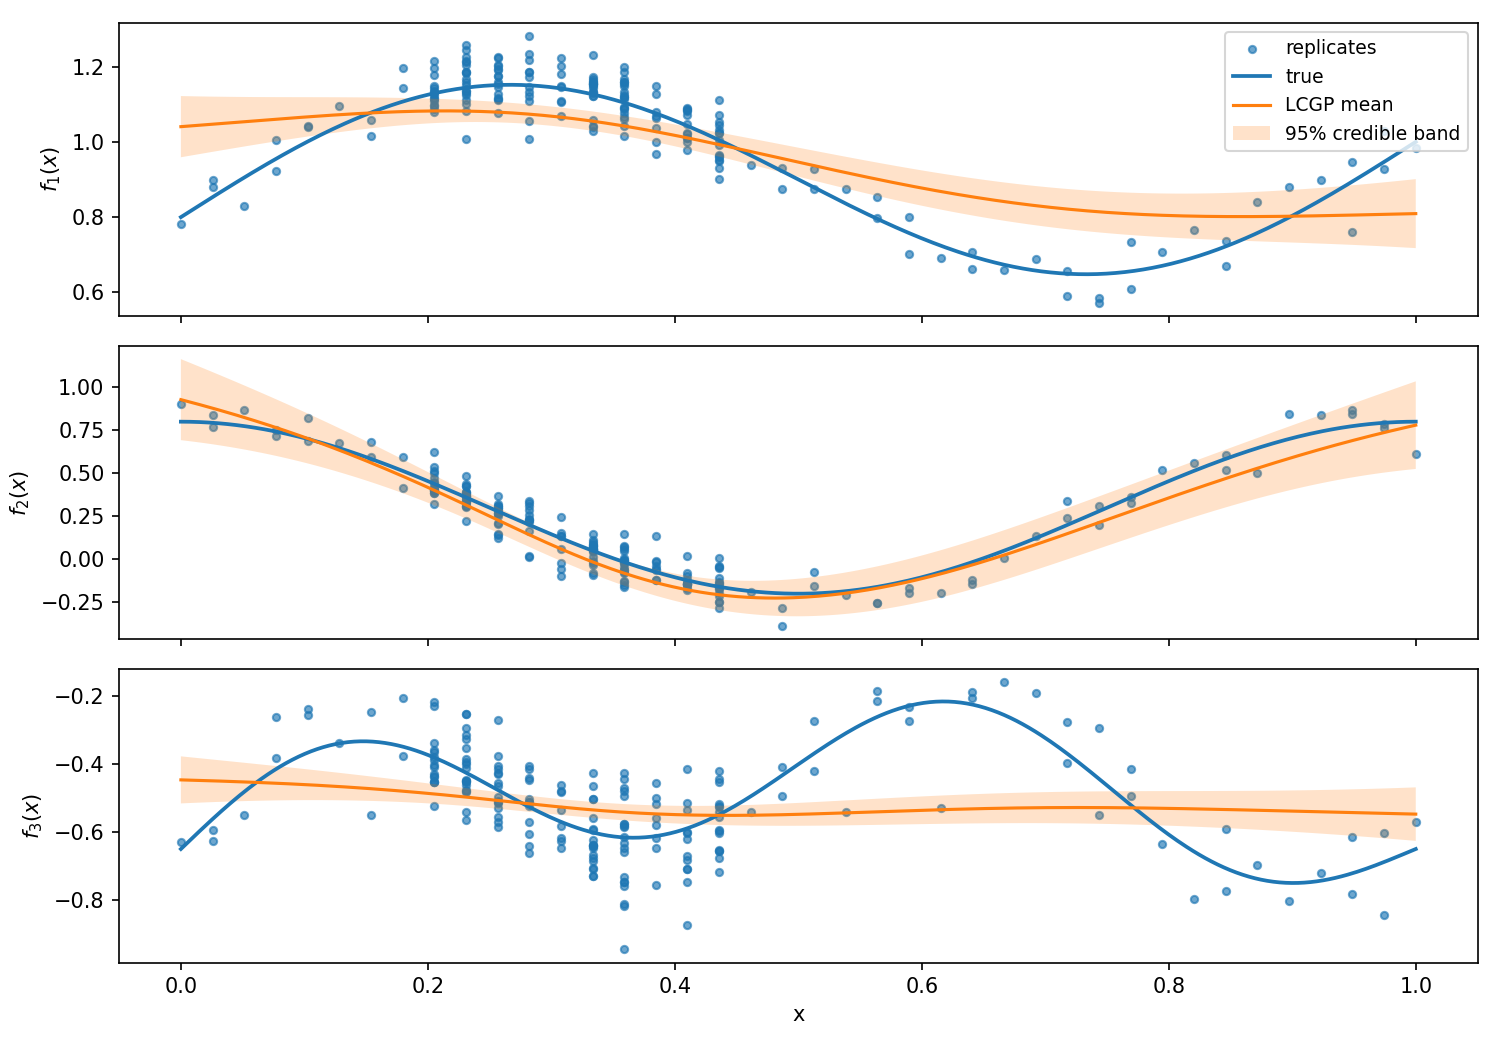
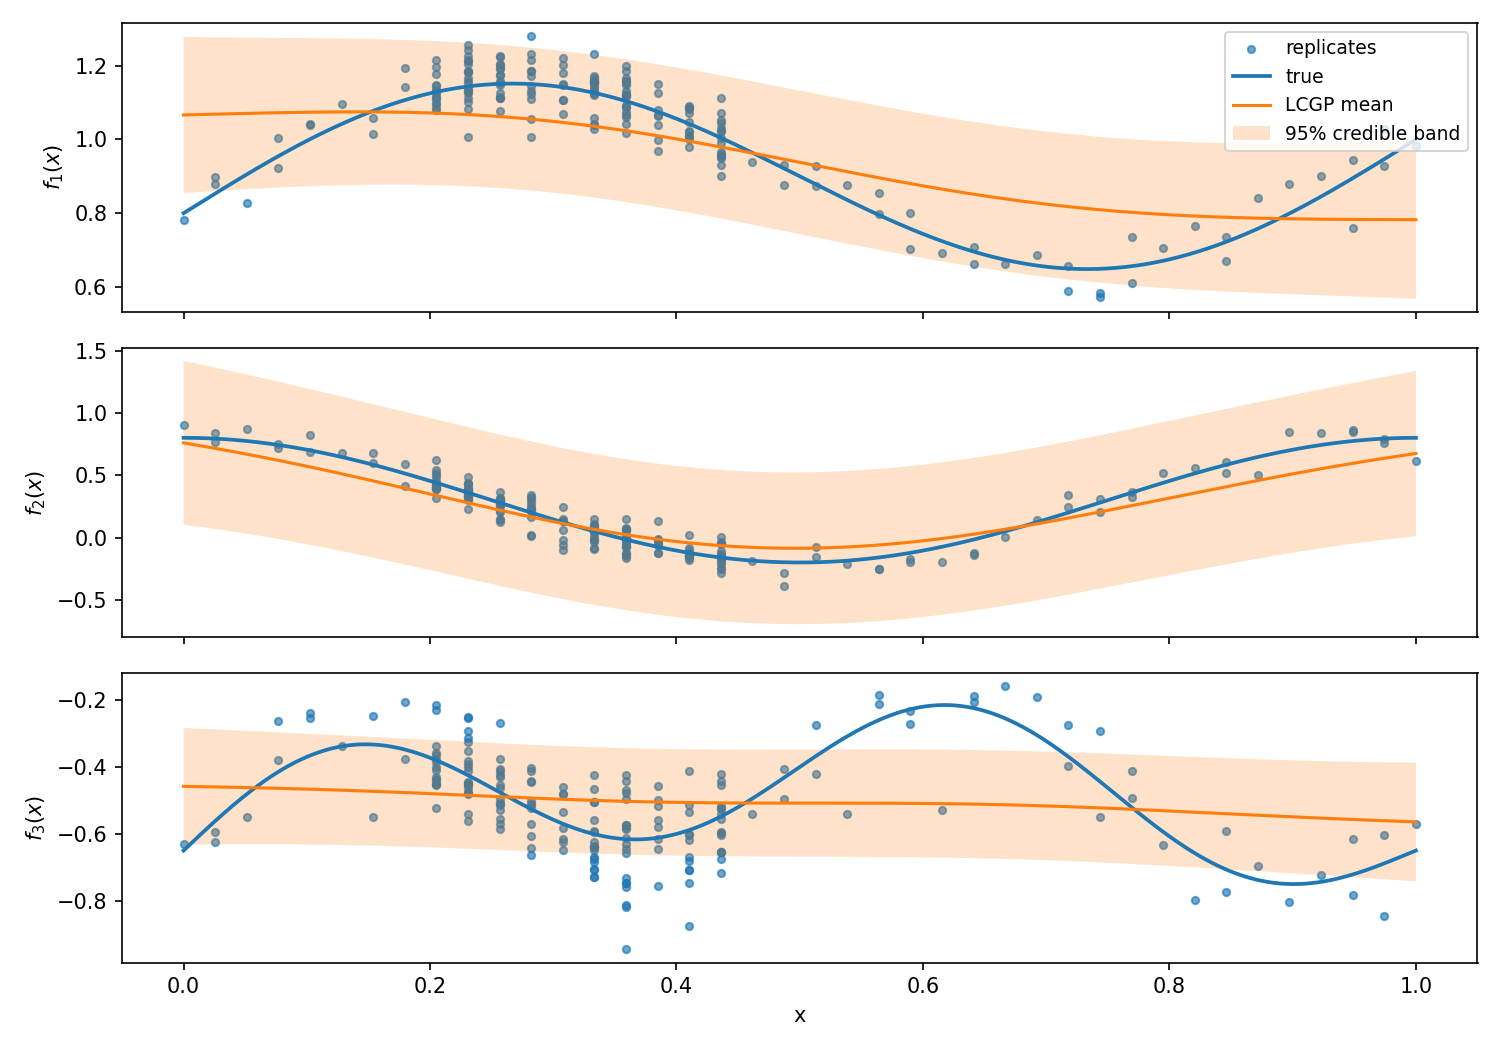
added comments for each calculation matching with overleaf document. and added toggle mode for standardization or not in neglpost_rep

diff --git a/lcgp/lcgp.py b/lcgp/lcgp.py
@@ -35,6 +35,8 @@ class LCGP(gpflow.Module):
         super().__init__()
         self.verbose = verbose
         self.robust_mean = robust_mean
+        self.rep_standardize_ybar = True            # can toggle this
+
         self.x = self._verify_data_types(x)
         self.y = self._verify_data_types(y)
 
@@ -155,9 +157,72 @@ class LCGP(gpflow.Module):
         Build replication structures once if not yet built.
         """
         if not self._rep_initialized:
+            # (LaTeX: lines 540-546, 541-546)
             self.preprocess()  # builds x_unique, ybar, r, R, ybar_s, etc.
             # rebuild basis on ybar_s
             self._rep_initialized = True
+
+# def preprocess(self, y_raw=None, x_raw=None):
+#     """
+#     TF-only
+#     """
+#     if x_raw is None:
+#         x_raw = self.x_orig
+#     if y_raw is None:
+#         y_raw = self.y_orig
+
+#     x_raw = x_raw if isinstance(x_raw, tf.Tensor) else tf.convert_to_tensor(x_raw, dtype=tf.float64)
+#     y_raw = y_raw if isinstance(y_raw, tf.Tensor) else tf.convert_to_tensor(y_raw, dtype=tf.float64)
+
+#     tf.debugging.assert_rank(x_raw, 2, message="x_raw must be (N, d)")
+#     tf.debugging.assert_rank(y_raw, 2, message="y_raw must be (p, N)")
+#     N = tf.shape(x_raw)[0]
+#     d = tf.shape(x_raw)[1]
+#     p = tf.shape(y_raw)[0]
+#     tf.debugging.assert_equal(tf.shape(y_raw)[1], N, message="y_raw columns must match x_raw rows")
+
+#     row_str = tf.strings.reduce_join(
+#         tf.as_string(x_raw, precision=17), axis=1, separator=","
+#     )
+#     uniq_str, group_ids = tf.unique(row_str)  
+
+#     # counts per unique
+#     n = tf.shape(uniq_str)[0]
+#     r = tf.math.bincount(group_ids, minlength=n, maxlength=n, dtype=tf.int32)
+
+#     idx = tf.range(N, dtype=tf.int32)
+#     big = tf.constant(2**31 - 1, dtype=tf.int32)
+#     first_idx = tf.math.unsorted_segment_min(idx, group_ids, n)
+
+#     x_unique = tf.gather(x_raw, first_idx)  # (n, d)
+
+#     ybar_T = tf.math.unsorted_segment_mean(tf.transpose(y_raw), group_ids, n)  # (n, p)
+#     ybar = tf.transpose(ybar_T)  # (p, n)
+
+#     self.x_unique = tf.cast(x_unique, tf.float64)
+#     self.x_unique_s = (self.x_unique - self.x_min) / (self.x_max - self.x_min)
+
+#     self.group_ids = tf.cast(group_ids, tf.int32)          # (N,)
+#     self.r = tf.cast(r, tf.int32)                          # (n,)
+#     self.R = tf.linalg.diag(tf.cast(self.r, tf.float64))   # (n, n)
+#     self.ybar = tf.cast(ybar, tf.float64)                  # (p, n)
+
+#     if self.robust_mean:
+#         ycenter = tfp.stats.percentile(self.ybar, 50.0, axis=1, keepdims=True)
+#         yspread = tfp.stats.percentile(tf.abs(self.ybar - ycenter), 50.0, axis=1, keepdims=True)
+#     else:
+#         ycenter = tf.reduce_mean(self.ybar, axis=1, keepdims=True)
+#         yspread = tf.math.reduce_std(self.ybar, axis=1, keepdims=True)
+
+#     yspread = tf.where(yspread > 0, yspread, tf.ones_like(yspread, dtype=tf.float64))
+#     self.ybar_s = (self.ybar - ycenter) / yspread
+#     self.ybar_mean = ycenter
+#     self.ybar_std = yspread
+
+#     self.n = tf.cast(n, tf.int32)
+#     self.d = tf.cast(d, tf.int32)
+#     self.p = tf.cast(p, tf.int32)
+
 
     def preprocess(self, y_raw=None, x_raw=None):
         # ADD SELF.IS_REP: shud i use replication structure??
@@ -212,6 +277,7 @@ class LCGP(gpflow.Module):
             yspread = tf.math.reduce_std(self.ybar, axis=1, keepdims=True)
 
         yspread = tf.where(yspread > 0, yspread, tf.ones_like(yspread, dtype=tf.float64))
+        # (LaTeX: lines 540-546, 556-557)
         self.ybar_s   = (self.ybar - ycenter) / yspread
         self.ybar_mean = ycenter
         self.ybar_std  = yspread
@@ -282,7 +348,13 @@ class LCGP(gpflow.Module):
         Uses ybar_s if available (replication), else y.
         """
         if self.submethod == 'rep' and hasattr(self, 'ybar_s'):
-            y_in = self.ybar_s
+            # y_in = self.ybar_s
+            if getattr(self, "rep_standardize_ybar", True) and hasattr(self, "ybar_s"):
+                y_in = self.ybar_s
+            elif hasattr(self, "ybar"):
+                y_in = self.ybar
+            else:
+                y_in = self.y
         else:
             y_in = self.y
 
@@ -306,8 +378,9 @@ class LCGP(gpflow.Module):
 
         sing_q = singvals[:q]
         phi = left_u[:, :q] * tf.sqrt(tf.cast(n, tf.float64)) / sing_q
+        # (LaTeX: D = diag(d_k), 549-550)
         diag_D = tf.reduce_sum(phi ** 2, axis=0)
-
+        # (LaTeX around lines 256-290)
         g = tf.matmul(phi, y, transpose_a=True)
         print("======= VARIANCE OF G ======")
         print(tf.math.reduce_variance(g, axis=1, keepdims=False, name=None))
@@ -424,38 +497,56 @@ class LCGP(gpflow.Module):
         lLmb, lLmb0, lsigma2s, lnugGPs = self.get_param()
         xk   = self.x_unique_s                      
         ybar = self.ybar_s                          
-        r    = tf.cast(self.r, tf.float64)          
-        R    = self.R                                
+        r    = tf.cast(self.r, tf.float64)                          # r_i (LaTeX: lines 541-546)
+        R    = self.R                                               # R = diag(r_i) (LaTeX: lines 541-546)
         n    = tf.cast(self.n, tf.float64)
         p    = tf.cast(self.p, tf.float64)
 
-        D    = self.diag_D                          
-        phi  = self.phi                             
+        D    = self.diag_D                                          # D = diag(d_k) (LaTeX: lines 549-550)
+        phi  = self.phi                                             # Φ (LaTeX: lines 548-550)
 
-        sigma_var_raw = tf.exp(lsigma2s)  # Σ 
-        sigma_inv_raw = 1.0 / sigma_var_raw  # Σ^{-1}
-        sigma_inv_sqrt_raw = tf.sqrt(sigma_inv_raw)  # Σ^{-1/2}
+        # Choose whether to standardize ybar inside the replicated likelihood
+        use_std = getattr(self, "rep_standardize_ybar", True)
+
+        sigma_var_raw = tf.exp(lsigma2s)                            # Σ (LaTeX: lines 566-569)
+        sigma_inv_raw = 1.0 / sigma_var_raw                         # Σ^{-1}
+        sigma_inv_sqrt_raw = tf.sqrt(sigma_inv_raw)                 # Σ^{-1/2}  (LaTeX: lines 589-591, 594-596)
         
-        std = self.ybar_std[:, 0]  
-        std_sq = tf.square(std)
-        sigma_var_std = sigma_var_raw / std_sq  # Σ_s
-        sigma_inv_std = 1.0 / sigma_var_std  # Σ_s^{-1} 
-        sigma_inv_sqrt_std = sigma_inv_sqrt_raw * std  # Σ_s^{-1/2}
+        if use_std:
+            # Standardized replicate-averages
+            ybar = self.ybar_s
+
+            # When ybar_s = (ybar_raw - mean)/std, the implied noise variance in standardized space is:
+            #   Σ_std = Σ_raw / std^2
+            std = self.ybar_std[:, 0]                    
+            sigma_var_used = sigma_var_raw / tf.square(std)         # Σ_std
+            sigma_inv_sqrt = sigma_inv_sqrt_raw * std               # Σ_std^{-1/2} = (1/sqrt(Σ_raw)) * std
+        else:
+            # Raw replicate-averages
+            ybar = self.ybar
+            sigma_var_used = sigma_var_raw                          # Σ_raw
+            sigma_inv_sqrt = sigma_inv_sqrt_raw                     # Σ_raw^{-1/2}
+
+        # std = self.ybar_std[:, 0]  
+        # std_sq = tf.square(std)
+        # sigma_var_std = sigma_var_raw / std_sq                      # Σ_s (standardized) (maps to Σ in formulas)
+        # sigma_inv_std = 1.0 / sigma_var_std                         # Σ_s^{-1} 
+        # sigma_inv_sqrt_std = sigma_inv_sqrt_raw * std               # Σ_s^{-1/2}
         # psi_c = tf.transpose(phi) / sigma_inv_sqrt_std
         # self.psi_c = psi_c
 
         nlp = tf.constant(0.0, tf.float64)
 
-        # 0.5 * sum_i r_i * ybar_i^T Σ^{-1} ybar_i
-        ybar_scaled = ybar * sigma_inv_sqrt_std[:, None]
+        # 0.5 * sum_i r_i * ybar_i^T Σ^{-1} ybar_i                  (LaTeX: lines 693-694)
+        ybar_scaled = ybar * sigma_inv_sqrt[:, None]            # Σ^{-1/2} \bar{Y} (LaTeX: 581-583)
         col_sq      = tf.reduce_sum(tf.square(ybar_scaled), axis=0) 
-        nlp += 0.5 * tf.reduce_sum(r * col_sq)
+        nlp += 0.5 * tf.reduce_sum(r * col_sq)                      # (LaTeX: 693-694)
 
-        # + (n/2) log|Σ_s| = (n/2) (sum log Σ - 2 sum log std)
-        nlp += 0.5 * n * tf.reduce_sum(tf.math.log(sigma_var_std))
+        # + (n/2) log|Σ_s| = (n/2) (sum log Σ - 2 sum log std), (corresponds to the |Σ|^{-n/2} constant)
+        nlp += 0.5 * n * tf.reduce_sum(tf.math.log(sigma_var_used))  #  (LaTeX: lines 690-691)
 
         # - (p/2) log|R| = - (p/2) * sum_i log(r_i)
-        nlp += -0.5 * p * tf.reduce_sum(tf.math.log(r))
+        nlp += -0.5 * p * tf.reduce_sum(tf.math.log(r))             # (LaTeX: |R|^{p/2} in likelihood constant; 690-691)
 
         pc = self.penalty_const
         reg = (pc['lLmb'] * tf.reduce_sum(tf.square(tf.math.log(self.lLmb))) +
@@ -465,32 +556,36 @@ class LCGP(gpflow.Module):
         bkSb_sum = tf.constant(0.0, tf.float64)
         logA_sum = tf.constant(0.0, tf.float64)
 
-        sr  = tf.sqrt(r) 
+        sr  = tf.sqrt(r)                                            # R^{1/2} via diag(sqrt(r_i)) (LaTeX: lines 706-709)
 
         q_int = tf.cast(self.q, tf.int32)
         for k in range(q_int):
+            # C_k (LaTeX: lines 615-616, 712-713)
             Ck = Matern32(xk, xk, llmb=lLmb[k], llmb0=lLmb0[k], lnug=lnugGPs[k]) 
 
-            # b_k = R @ ybar_s^T @ (Σ_s^{-1/2} φ_k)
-            v_k = sigma_inv_sqrt_std * phi[:, k]  # Σ_s^{-1/2} φ_k
-            ytv = tf.linalg.matvec(tf.transpose(ybar), v_k)  # ybar_s^T @ v_k
-            b_k = r * ytv  # R @ (ybar_s^T @ v_k)                                  
+            # b_k = R @ ybar_s^T @ (Σ_s^{-1/2} φ_k) 
+            v_k = sigma_inv_sqrt * phi[:, k]                    # Σ^{-1/2} φ_k (LaTeX: 594-596)
+            ytv = tf.linalg.matvec(tf.transpose(ybar), v_k)         # \bar{Y}^T (Σ^{-1/2} φ_k) (LaTeX: 594-596)
+            b_k = r * ytv                                           # R @ (...) since R=diag(r) (LaTeX: 594-596, 625-628)                                 
 
             d_k = D[k]
+
+            # Below is a Woodbury-style way to compute S_k, b_k, etc. (LaTeX: lines 698-709)
             Cb  = tf.linalg.matvec(Ck, b_k)
             
-            A   = tf.eye(self.n, dtype=tf.float64) + d_k * ((Ck * sr[None, :]) * sr[:, None])
+            # A = I + d_k R^{1/2} C_k R^{1/2} (LaTeX: lines 703-704, 707-709)
+            A   = tf.eye(self.n, dtype=tf.float64) + d_k * ((Ck * sr[None, :]) * sr[:, None])   # (LaTeX: lines 698-709)
             LA  = tf.linalg.cholesky(A)
             u   = tf.sqrt(d_k) * (sr * Cb)
             z   = tf.linalg.cholesky_solve(LA, tf.expand_dims(u, -1))
             z   = tf.squeeze(z, -1)
-            Sb  = Cb - tf.linalg.matvec(Ck, (tf.sqrt(d_k) * (sr * z)))
+            Sb  = Cb - tf.linalg.matvec(Ck, (tf.sqrt(d_k) * (sr * z)))                          # (LaTeX: lines 692-695)
 
-            bkSb_sum += tf.tensordot(b_k, Sb, axes=1)
-            logA_sum += 2.0 * tf.reduce_sum(tf.math.log(tf.linalg.diag_part(LA)))
+            bkSb_sum += tf.tensordot(b_k, Sb, axes=1)               # b_k^T S_k b_k term (LaTeX: +0.5 b_k^T V_k b_k, lines 693-695)
+            logA_sum += 2.0 * tf.reduce_sum(tf.math.log(tf.linalg.diag_part(LA)))               # log|A| where A = I + d_k R^{1/2} C_k R^{1/2} (LaTeX: lines 707-709)
 
-        nlp += -0.5 * bkSb_sum
-        nlp +=  0.5 * logA_sum
+        nlp += -0.5 * bkSb_sum                                      # (LaTeX: lines 693-695)
+        # nlp +=  0.5 * logA_sum
 
         nlp +=  reg
         nlp /= n
@@ -622,7 +717,7 @@ class LCGP(gpflow.Module):
         sigma_inv_sqrt_raw = tf.exp(-0.5 * lsigma2s)  # Σ^{-1/2}
         std = self.ybar_std[:, 0]  
         sigma_inv_sqrt_std = sigma_inv_sqrt_raw * std
-        self.psi_c = tf.transpose(phi) / sigma_inv_sqrt_std[:, None]
+        self.psi_c = tf.transpose(phi) / sigma_inv_sqrt_std[:, None]                        # corresponds to Φ^T Σ^{-1/2} (LaTeX: lines 589-591)
 
         q = tf.cast(self.q, tf.int32)
         n = tf.cast(self.n, tf.int32)
@@ -633,32 +728,40 @@ class LCGP(gpflow.Module):
 
         for k in range(q):
             Ck = Matern32(xk, xk, llmb=lLmb[k], llmb0=lLmb0[k], lnug=lnugGPs[k])
-            v_k = sigma_inv_sqrt_std * phi[:, k]
-            ytv = tf.linalg.matvec(tf.transpose(ybar), v_k)
+
+            # b_k = R @ ybar^T @ (Σ^{-1/2} φ_k) (LaTeX: 594-596)
+            v_k = sigma_inv_sqrt_std * phi[:, k]                                            # Σ^{-1/2} φ_k (LaTeX: lines 594-596)
+            ytv = tf.linalg.matvec(tf.transpose(ybar), v_k)                                 # ybar^T (...) (LaTeX: lines 594-596)
             b_k = r * ytv
 
             d_k = D[k]
             sr  = tf.sqrt(r)
 
+            # m_k = V_k b_k (computed via Woodbury identity; LaTeX: m_k = V_k b_k, lines 635-638)
             Cb  = tf.linalg.matvec(Ck, b_k)
-            A   = tf.eye(n, dtype=tf.float64) + d_k * ((Ck * sr[None, :]) * sr[:, None])
+            A   = tf.eye(n, dtype=tf.float64) + d_k * ((Ck * sr[None, :]) * sr[:, None])    # I + d_k R^{1/2} C_k R^{1/2} (LaTeX: lines 703-704, 707-709)
             LA  = tf.linalg.cholesky(A)
             u   = tf.sqrt(d_k) * (sr * Cb)
             z   = tf.linalg.cholesky_solve(LA, tf.expand_dims(u, -1))
             z   = tf.squeeze(z, -1)
-            m_k = Cb - tf.linalg.matvec(Ck, (tf.sqrt(d_k) * (sr * z)))
+            m_k = Cb - tf.linalg.matvec(Ck, (tf.sqrt(d_k) * (sr * z)))                      # corresponds to V_k b_k (LaTeX: lines 635-638)
 
-            CinvM_k = b_k - d_k * tf.linalg.matvec(R, m_k)
+            # C_k^{-1} m_k = b_k - d_k R m_k  (LaTeX: lines 731-734)
+            CinvM_k = b_k - d_k * tf.linalg.matvec(R, m_k)                                  # (LaTeX: lines 731-734)
 
+            # Build C_k^{-1} explicitly to form T_k
             LC  = tf.linalg.cholesky(Ck)
             Id  = tf.eye(n, dtype=tf.float64)
-            invC = tf.linalg.cholesky_solve(LC, Id)
+            invC = tf.linalg.cholesky_solve(LC, Id)                                         # C_k^{-1} (LaTeX: lines 641-642)
 
-            # V_k = (C_k^{-1} + d_k R)^{-1}, so:
-            # T_k = C_k^{-1} - C_k^{-1} (C_k^{-1} + d_k R)^{-1} C_k^{-1}
-            P_k = invC + d_k * R  # C_k^{-1} + d_k R (posterior precision)
-            V_k = tf.linalg.inv(P_k)  # (C_k^{-1} + d_k R)^{-1}
-            Tk  = invC - invC @ V_k @ invC  # T_k
+            # P_k = C_k^{-1} + d_k R 
+            P_k = invC + d_k * R                                                            # (LaTeX: lines 631-634)
+            
+            # V_k = P_k^{-1}
+            V_k = tf.linalg.inv(P_k)                                                        # (LaTeX: lines 632-634)
+            
+            # T_k = C_k^{-1} - C_k^{-1} V_k C_k^{-1} 
+            Tk  = invC - invC @ V_k @ invC                                                  # (LaTeX: lines 641-642)
 
             CinvM = tf.tensor_scatter_nd_update(CinvM, [[k]], [CinvM_k])
             Tks   = tf.tensor_scatter_nd_update(Tks,   [[k]], [Tk])
@@ -753,14 +856,17 @@ class LCGP(gpflow.Module):
         gvar = tf.zeros([self.q, n0], dtype=tf.float64) 
 
         for k in range(self.q):
-            c00k = Matern32(x0, x0,     llmb=lLmb[k], llmb0=lLmb0[k], lnug=lnugGPs[k], diag_only=True)
-            c0k  = Matern32(x0, Xtrain, llmb=lLmb[k], llmb0=lLmb0[k], lnug=lnugGPs[k], diag_only=False)
+            c00k = Matern32(x0, x0,     llmb=lLmb[k], llmb0=lLmb0[k], lnug=lnugGPs[k], diag_only=True)      # c_{**} (LaTeX: lines 712-717)
+            c0k  = Matern32(x0, Xtrain, llmb=lLmb[k], llmb0=lLmb0[k], lnug=lnugGPs[k], diag_only=False)     # c_k(x_*) (LaTeX: lines 712-717)
             
-            ghat_k = tf.linalg.matvec(c0k, CinvM[k])
-            Tk     = Tks[k]
+            # μ_k(x_*) = c_k^T (C_k^{-1} m_k) = c_k^T CinvM_k
+            ghat_k = tf.linalg.matvec(c0k, CinvM[k])                                                        # (LaTeX: lines 720-722 / 731-734)
+
+            # σ_k^2(x_*) = c_{**} - c_k^T T_k c_k
+            Tk     = Tks[k]                                                                                 # T_k (LaTeX: lines 641-642)
             v      = tf.matmul(c0k, Tk)
-            quad   = tf.reduce_sum(v * c0k, axis=1)
-            gvar_k = c00k - quad
+            quad   = tf.reduce_sum(v * c0k, axis=1)                                                         # c_k^T T_k c_k (LaTeX: lines 724-726)
+            gvar_k = c00k - quad                                                                            # (LaTeX: lines 724-726)
 
             ghat = tf.tensor_scatter_nd_update(ghat, [[k]], [ghat_k])
             gvar = tf.tensor_scatter_nd_update(gvar, [[k]], [gvar_k])
@@ -768,13 +874,14 @@ class LCGP(gpflow.Module):
         self.ghat = ghat
         self.gvar = gvar
 
-        predmean_std = tf.matmul(phi, ghat)  
-        confvar_std  = tf.matmul(tf.square(phi), gvar)  
+        # Output prediction: μ_y = Ψ μ_g, Σ_y = Σ + Ψ Σ_g Ψ^T 
+        predmean_std = tf.matmul(phi, ghat)                                                                 # corresponds to μ_y = Ψ μ_g; LaTeX lines: 744-746)
+        confvar_std  = tf.matmul(tf.square(phi), gvar)                                                      # Ψ Σ_g Ψ^T diagonal (LaTeX lines: 749-751)
         
         sigma_var_raw = tf.exp(lsigma2s)
         std_sq = tf.square(self.ybar_std[:, 0])
         sigma_var_std = sigma_var_raw / std_sq 
-        predvar_std = confvar_std + sigma_var_std[:, None]
+        predvar_std = confvar_std + sigma_var_std[:, None]                                                  # + Σ_obs term (LaTeX lines: 749-751)
 
         ypred    = predmean_std * self.ybar_std + self.ybar_mean
         yconfvar = confvar_std * tf.square(self.ybar_std)
